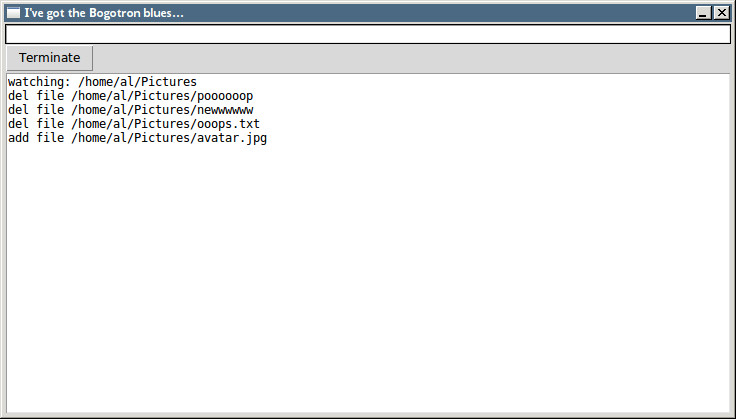
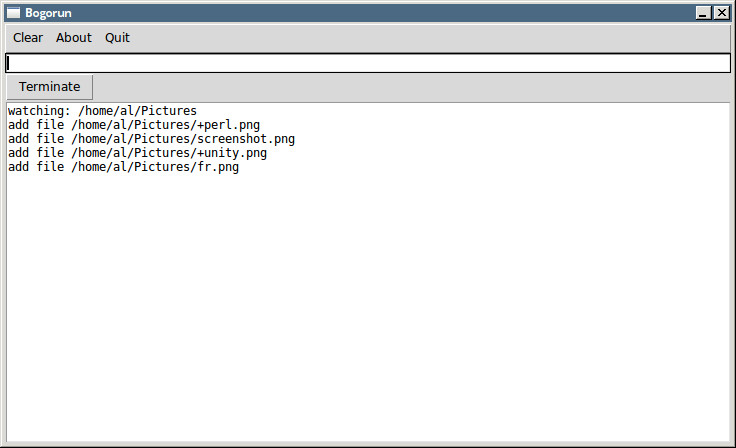
more boy!

Changed region(s): [[0.0, 0.0, 1.0, 0.4033]]

diff --git a/GUI.py b/GUI.py
@@ -9,6 +9,9 @@ import os
 import signal
 import shlex
 
+
+ABOUT_TEXT = "(c) 1984-2015. Al Poole. \n"
+
 class Application(Frame):
         def __init__(self, master):
                 self.myParent = master;
@@ -18,6 +21,12 @@ class Application(Frame):
                 self.grid()
                 self.create_widgets()
 
+        def insert_text(self, output):
+                self.textbox.configure(state='normal')
+                self.textbox.insert(INSERT, output)
+                self.textbox.configure(state='disabled')
+                self.textbox.see(END)
+                
         def work(self, cmd):
                 if self.process:
                     self.process.terminate() 
@@ -25,7 +34,6 @@ class Application(Frame):
                     return
 
                 self.process = subprocess.Popen(shlex.split(cmd), stdout=subprocess.PIPE, stderr=subprocess.STDOUT, shell=False)
-
                 self.stop_button.configure(state='normal')
 
                 while True: #self.process.poll() is None:
@@ -33,16 +41,15 @@ class Application(Frame):
                     output = output.decode("utf-8")
                     if output == '':
                         break
-                    self.textbox.configure(state='normal')
-                    self.textbox.insert(INSERT, output)
-                    self.textbox.configure(state='disabled')
-                    self.textbox.see(END)
+                    self.insert_text(output)
+
+                self.insert_text("\n")
+                self.insert_text(output)
                 self.stop_button.configure(state='disabled')	
                 self.process = None
 
         def worker(self, string):
                 self.active = True;
-                print("pressed the bum button\n")
                 t = Thread(target=self.work, args=(string,))
                 t.start()
 
@@ -62,12 +69,44 @@ class Application(Frame):
                         self.process = None
                         self.active = False;
                         self.stop_button.configure(state='disabled')
+        def center(self):
+                screen_width = self.myParent.w_info.screenwidth()
+                screen_height = self.myParent.w_info.screenheight()
+
+        def about(self, *args):
+                self.textbox.configure(state='normal')
+                self.textbox.insert(INSERT, ABOUT_TEXT)
+                self.textbox.configure(state='disabled')
+                return
+
+
+                about = Toplevel(width=100,height=100)
+                about.title("About")
+                label = Label(about, text= "http://haxlab.org")
+                label.grid(row=0, sticky=W+N+S+E)
+                about.resizable(0, 0)
+                about.wm_geometry("300x300")
+                about.focus_set()
+
+        def clear(self, *args):
+                self.textbox.configure(state='normal')
+                self.textbox.delete(0.0, END)
+                self.textbox.configure(state='disabled')
 
         def create_widgets(self):
                 # This stuff gives me nightmares...nevermind!
                 self.frame = Frame(self)
                 self.frame.pack(expand=1, fill='both')
                 self.myParent.bind('<Return>', self.start)
+                self.textbox = Text(self.frame, width=80,  height=24)
+                self.textbox.grid(row=4, column = 0,sticky=W+E+N+S)
+                self.textbox.configure(state='disabled')
+		#menu
+                self.menu = Menu(self.myParent)
+                self.filemenu = Menu(self.menu, tearoff = 0)
+                self.filemenu.add_command(label="Clear", command = self.clear)
+                self.filemenu.add_command(label="About", command = self.about)
+                self.filemenu.add_command(label="Quit", command = quit)
                 #self.label = Label(self.frame, text = "Run").grid(row=0, column = 0)
                 self.entry = Entry(self.frame, width=90)
                 self.entry.grid(row=0, column = 0, sticky=W)
@@ -76,12 +115,12 @@ class Application(Frame):
                 self.stop_button = Button(self.frame, text = "Terminate", command = self.stop)
                 self.stop_button.grid(row=1, column=0, sticky=W)
                 self.stop_button.configure(state='disabled')
-                self.textbox = Text(self.frame, width=80,  height=24)
-                self.textbox.grid(row=4, column = 0,sticky=W+E+N+S)
                 self.entry.focus_set()
+                self.myParent.config(menu=self.filemenu)
+	
 def main():
         root = Tk()
-        root.title("I've got the Bogotron blues...")
+        root.title("Bogorun")
         app = Application(root)
         root.resizable(0, 0)
         root.mainloop()
